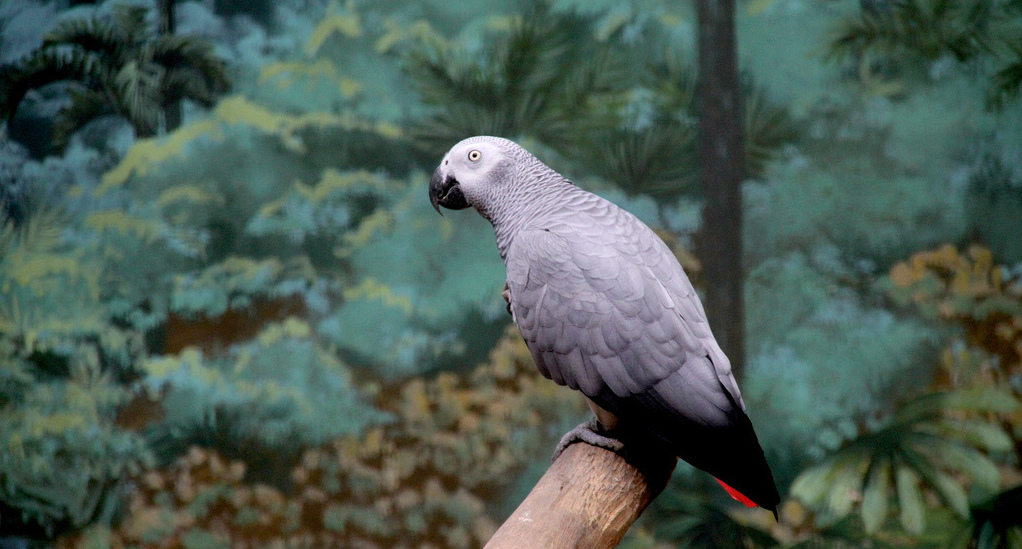
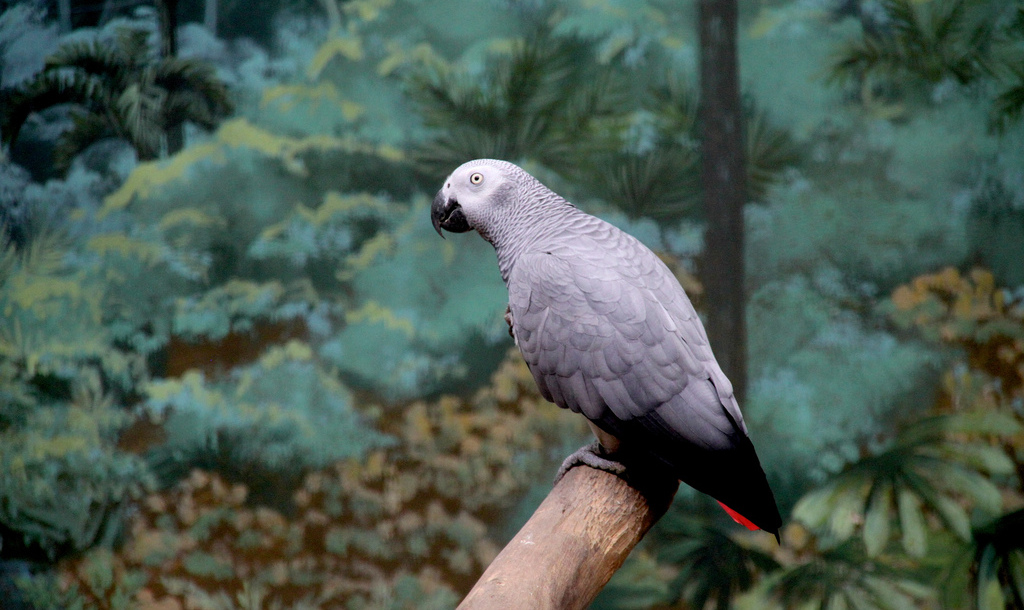
latest

diff --git a/css/custom.css b/css/custom.css
@@ -42,7 +42,7 @@ p {
  * vertically center the text.
  */
 .banner {
-    background: transparent url('http://24.media.tumblr.com/8b56d0317db2417daccd67c6ed3e3c64/tumblr_mvua8wDBj51qb9ueho1_1280.jpg') 0 0 no-repeat fixed;
+    background: transparent url('http://24.media.tumblr.com/7b557dfc89d9b1c12f9182cc01895448/tumblr_mvua8wDBj51qb9ueho1_r1_1280.jpg') 0 0 no-repeat fixed;
     text-align: center;
     background-size: cover;
     height: 350px;
